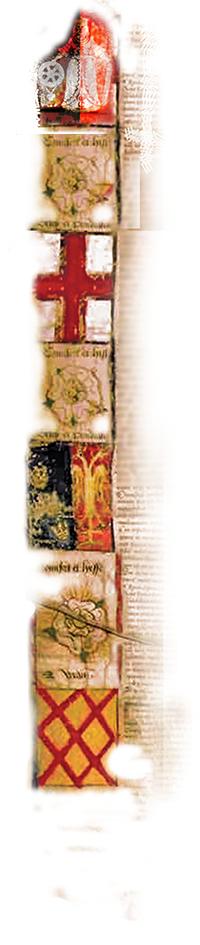
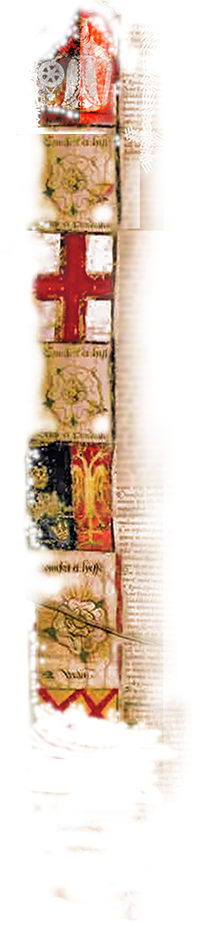
Добавлены гербы и перенесён langbar

diff --git a/wp-content/themes/rozengrals/style.css b/wp-content/themes/rozengrals/style.css
@@ -1763,11 +1763,19 @@ a:hover, .active a {
     zoom: 1;
     *display: inline;
     /**/
-    width: 260px;
-    margin: 30px;
+
+    margin: 30px 0 10px 0;
     vertical-align: top;
-    margin-left: 0px;
-    margin-bottom: 10px;
+    /*margin-left: 0px;*/
+    /*margin-bottom: 10px;*/
+}
+
+#cftbx1 {
+    width: 290px;
+}
+
+#cftbx2 {
+    /*width: 260px;*/
 }
 
 .cftbx span.wpcf7-not-valid-tip {
